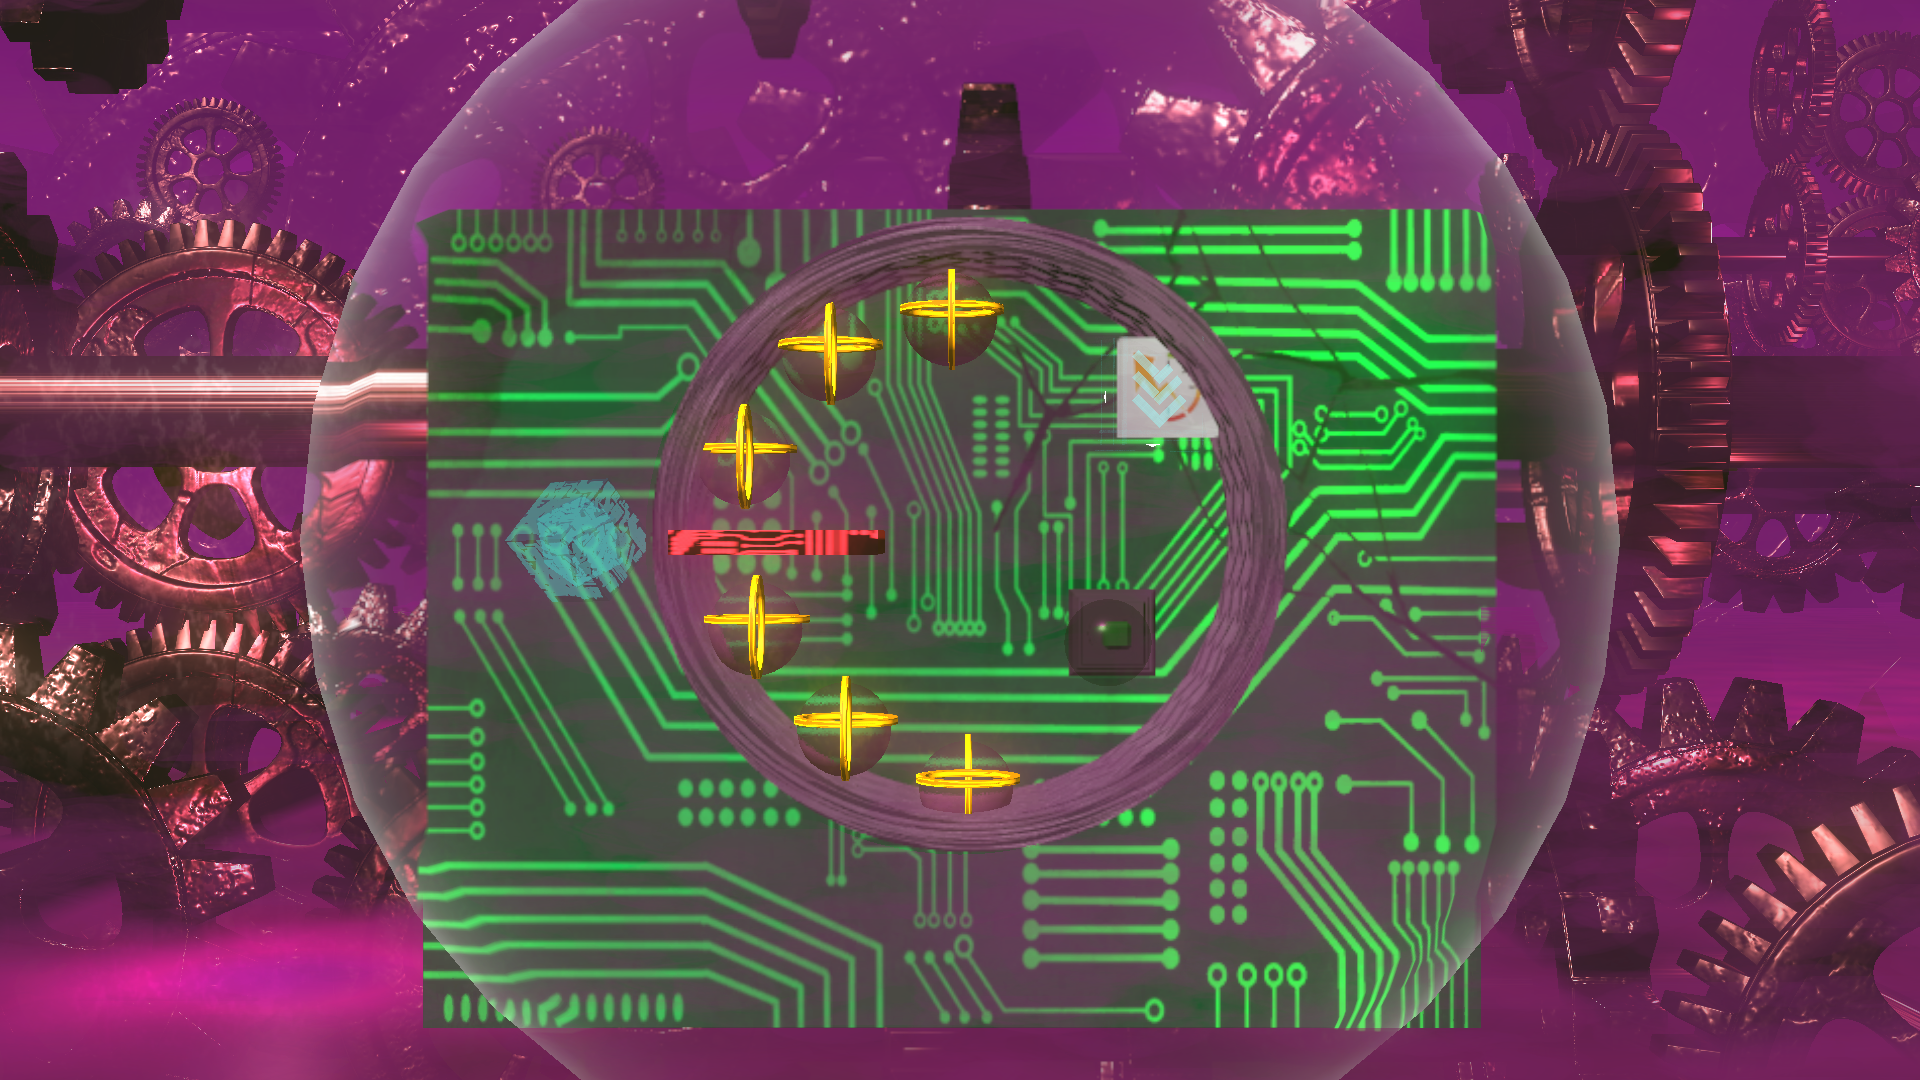
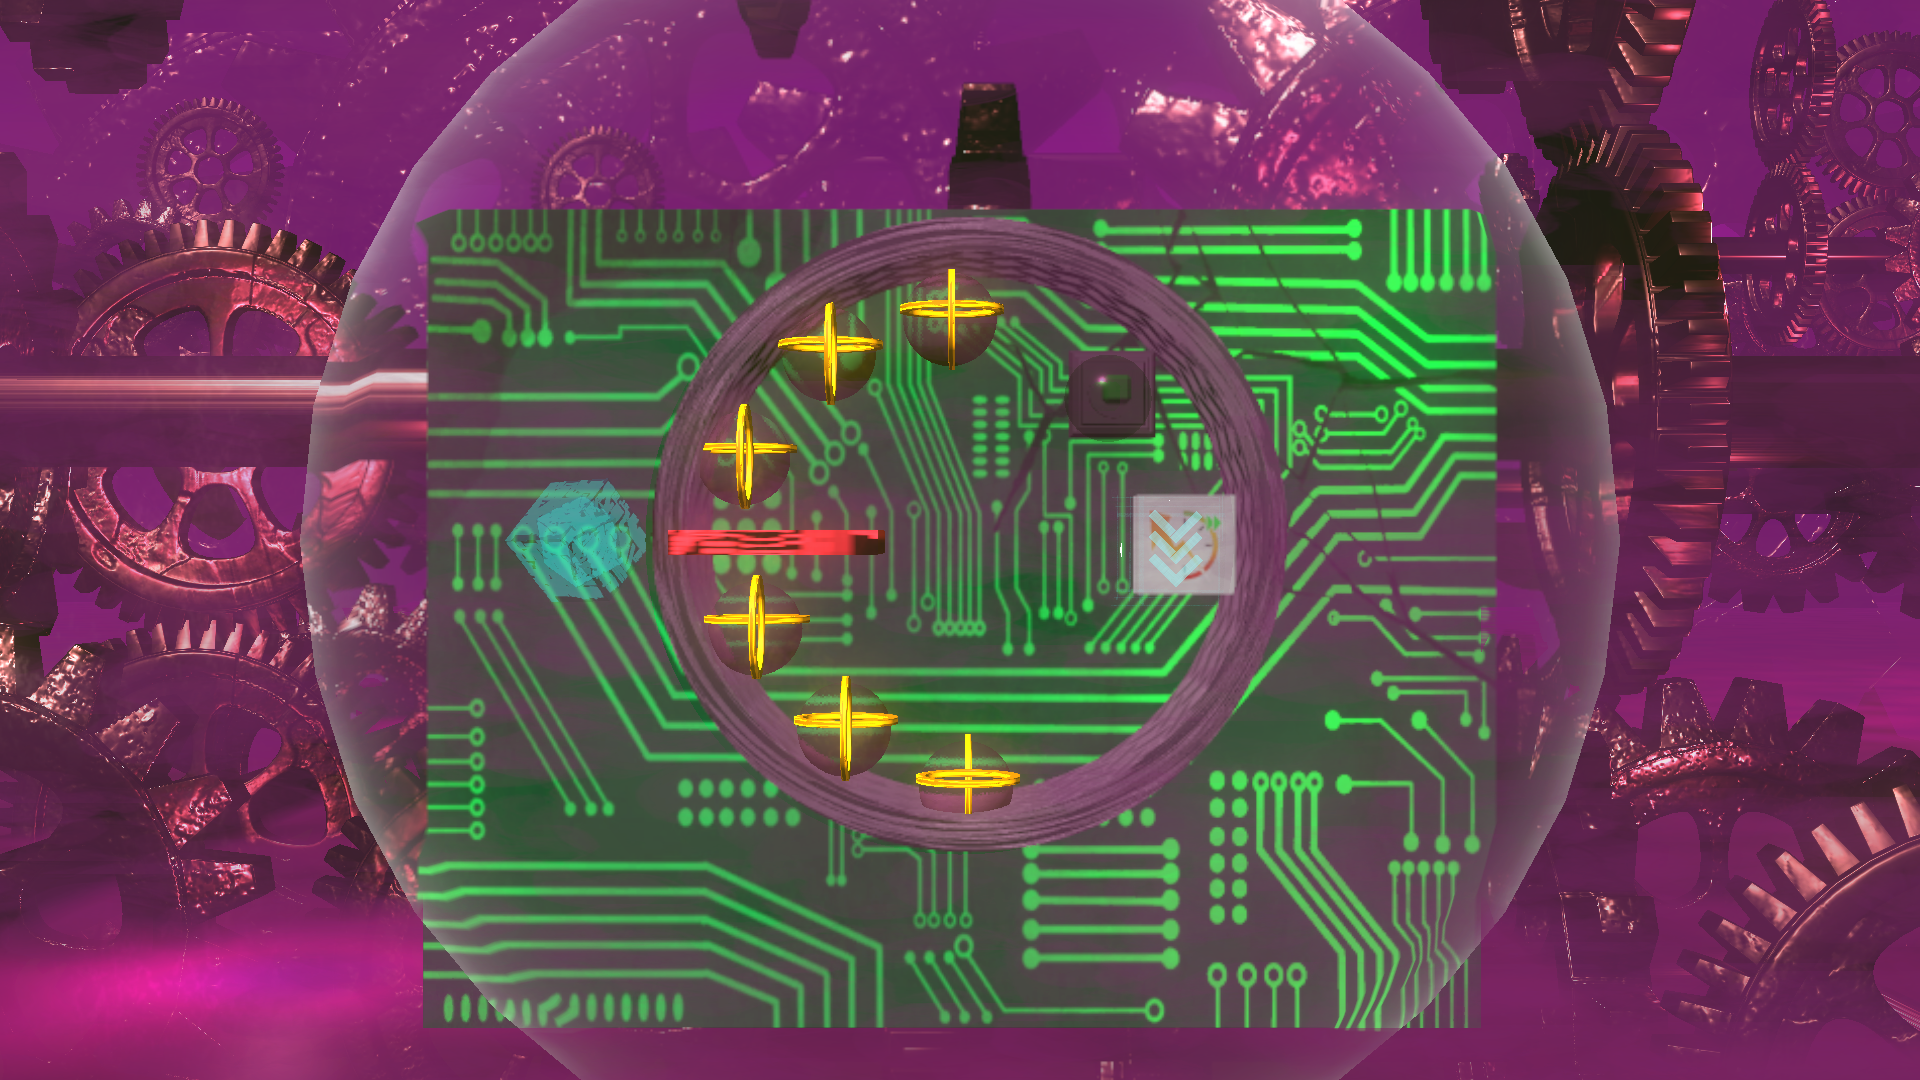
ランク差し替え リザルトハイスコア 見た目回り

diff --git a/Assets/Users/Umata/Scripts/ScoreManager.cs b/Assets/Users/Umata/Scripts/ScoreManager.cs
@@ -10,6 +10,8 @@ public class ScoreManager : MonoBehaviour
     //�RD��ԃe�L�X�g
     public TextMeshPro ScoreText;
     public TextMeshPro TimeText;
+    public TextMeshPro HiScoreText;
+
 
     public string NextSceneName;    //���V�[���̃e�L�X�g
 
@@ -35,6 +37,7 @@ public class ScoreManager : MonoBehaviour
     private float elapsedtime;
     public GameObject TimeTextObj;
     public GameObject ScoreTextObj;
+    public GameObject HiScoreTextObj;
     //��x�������s���Ȃ��悤�t���O�Ǘ�
     private bool time_countup_flg;
     private bool score_countup_flg;
@@ -44,6 +47,9 @@ public class ScoreManager : MonoBehaviour
     /// <summary>
     /// ひらた
     /// </summary>
+    Camera MainCamera;
+    RawImage rawImage;
+    RenderTexture renderTexture;
     AsyncOperation asyncOperation;//進捗チェック
     LoadSceneFade LoadSceneFade;
     public GameObject Fade;
@@ -61,13 +67,22 @@ public class ScoreManager : MonoBehaviour
     private bool IsBlackPanel;
     string world_to_load = "";
 
-    int current_world = StageDataManager.instance.now_world;
-    int current_stage = StageDataManager.instance.now_stage;
+    int current_world = -1;
+    int current_stage = -1;
 
     //�A�C�e���ړ��p�X�N���v�g
     ItemMover itemmover;
+
     private void Start()
     {
+        if (StageDataManager.instance != null)
+        {
+            current_world = StageDataManager.instance.now_world;
+            current_stage = StageDataManager.instance.now_stage;
+        }
+        rawImage = GameObject.Find("ResultWindow").GetComponent<RawImage>();
+        renderTexture = (RenderTexture)Resources.Load("MainCamera");
+        MainCamera = GameObject.Find("Main Camera").GetComponent<Camera>();
         postProcessVolume.transform.GetComponent<Volume>().profile.TryGet(out vignette);
         LoadSceneFade = GameObject.Find("LoadSceneFade").GetComponent<LoadSceneFade>();
         BlackPanel = GameObject.Find("FadeBlackPanel").GetComponent<RawImage>();
@@ -76,6 +91,8 @@ public class ScoreManager : MonoBehaviour
         itemmover = gameObject.GetComponent<ItemMover>();
         TimeText = TimeTextObj.transform.GetComponent<TextMeshPro>();
         ScoreText = ScoreTextObj.transform.GetComponent<TextMeshPro>();
+        HiScoreTextObj = GameObject.Find("HiScoreText");
+        HiScoreText = HiScoreTextObj.transform.GetComponent<TextMeshPro>();
         timeLeft = 0;
         ScoreText.text = "" + score.ToString();
         TimeText.text = "" + timeLeft.ToString();
@@ -89,6 +106,11 @@ public class ScoreManager : MonoBehaviour
         border_a = StageDataManager.instance.GetCurrentStageData().rank_a_border;
         border_b = StageDataManager.instance.GetCurrentStageData().rank_b_border;
         border_c = StageDataManager.instance.GetCurrentStageData().rank_c_border;
+        HiScoreText.text = StageDataManager.instance.GetCurrentStageData().Score.ToString();
+        int nowstage = StageDataManager.instance.now_stage;
+        int nowworld = StageDataManager.instance.now_world;
+        if (StageDataManager.instance.GetCurrentStageData().Score < Score)
+            StageDataManager.instance.worlds[nowworld].stages[nowstage].Score = Score;
     }
 
     private void Update()
@@ -130,11 +152,15 @@ public class ScoreManager : MonoBehaviour
                 score = Mathf.Min(score, Score);
 
                 ScoreText.text = "" + score.ToString();
+                if (int.Parse(HiScoreText.text) < score)
+                    HiScoreText.text = score.ToString();
 
                 if (InputManager.instance.press_select)
                 {
                     counting = true;
                     ScoreText.text = "" + Score.ToString();
+                    if (int.Parse(HiScoreText.text) < score)
+                        HiScoreText.text = score.ToString();
                     score_countup_flg = true;
                 }
                 if (score >= Score)
@@ -216,6 +242,8 @@ public class ScoreManager : MonoBehaviour
                         }
 
                         IsBlackPanel = true;
+                        MainCamera.targetTexture = renderTexture;
+                        rawImage.enabled = false;
                         startTime = Time.time;
                         postProcessVolume.SetActive(true);
                     }

diff --git a/Assets/Users/Hirata/Scripts/ScoreCount.cs b/Assets/Users/Hirata/Scripts/ScoreCount.cs
@@ -32,10 +32,5 @@ public class ScoreCount : MonoBehaviour
         if (timebonus < 0) timebonus = 0;
         scoreManager.Score = timebonus * Coefficient + bonus;
         scoreManager.ClearTime = (int)CurrentTime;
-
-        int nowstage = StageDataManager.instance.now_stage;
-        int nowworld = StageDataManager.instance.now_world;
-        if (StageDataManager.instance.worlds[nowworld].stages[nowstage].Score < scoreManager.Score)
-            StageDataManager.instance.worlds[nowworld].stages[nowstage].Score = scoreManager.Score;
     }
 }
